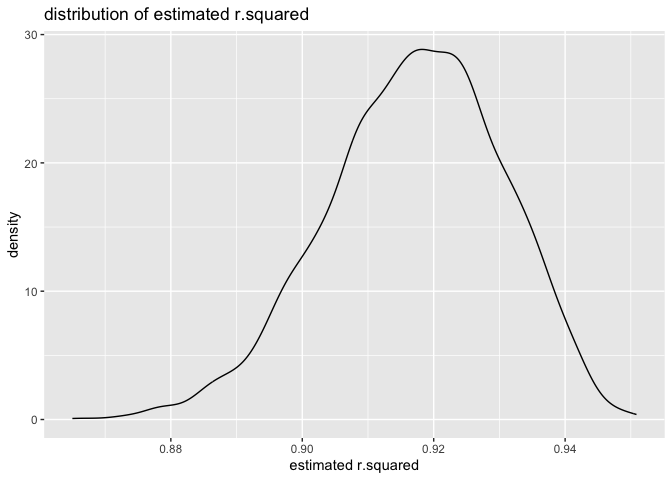
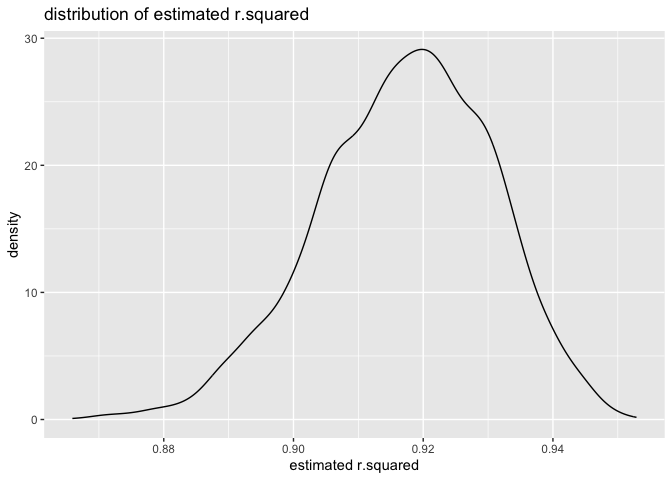
problem 3 finished

diff --git a/p8105_hw6_os2424.md b/p8105_hw6_os2424.md
@@ -213,8 +213,8 @@ quantile(pull(boot_straps, r.squared), probs = c(0.025,0.975))|>
 
 |       |         x |
 |:------|----------:|
-| 2.5%  | 0.8885607 |
-| 97.5% | 0.9404764 |
+| 2.5%  | 0.8888959 |
+| 97.5% | 0.9410845 |
 
 ``` r
 # CI for log
@@ -224,5 +224,110 @@ quantile(pull(boot_straps_nNA, log_beta), probs = c(0.025,0.975))|>
 
 |       |         x |
 |:------|----------:|
-| 2.5%  | -8.921296 |
-| 97.5% | -4.563491 |
+| 2.5%  | -9.109593 |
+| 97.5% | -4.568212 |
+
+# Problem 3
+
+``` r
+# import data
+birthwt <- read_csv("data/birthweight.csv")
+```
+
+    ## Rows: 4342 Columns: 20
+    ## ── Column specification ────────────────────────────────────────────────────────
+    ## Delimiter: ","
+    ## dbl (20): babysex, bhead, blength, bwt, delwt, fincome, frace, gaweeks, malf...
+    ## 
+    ## ℹ Use `spec()` to retrieve the full column specification for this data.
+    ## ℹ Specify the column types or set `show_col_types = FALSE` to quiet this message.
+
+``` r
+# clean data
+birthwt <- birthwt|>
+  janitor::clean_names()|>
+  mutate(babysex = case_when(babysex ==1 ~"male",
+                             babysex ==2 ~"female"),
+         frace = case_when(frace ==1 ~"White",
+                           frace ==2 ~"Black",
+                           frace ==3 ~"Asian",
+                           frace ==4 ~"Puerto Rican",
+                           frace ==8 ~"Other",
+                           frace ==9 ~"Unknown"),
+         malform = case_when(malform ==0 ~"absent",
+                             malform ==1 ~"present"),
+         mrace = case_when(mrace ==1 ~"White",
+                           mrace ==2 ~"Black",
+                           mrace ==3 ~"Asian",
+                           mrace ==4 ~"Puerto Rican",
+                           mrace ==8 ~"Other"))
+# check for NA
+sum(is.na(birthwt))
+```
+
+    ## [1] 0
+
+Based on a paper analyzing factors affecting birth weight of a newborn ,
+I decided to use baby’s sex, baby’s length at birth, mother’s weight at
+delivery, gestational age in weeks, father’s race, presence of
+malformations that could affect weight, mother’s age at delivery,
+average number of cigarettes smoked per day during pregnancy, and
+mother’s weight gain during pregnancy as factors to propose a model for
+birth weight.  
+
+paper reference: Metgud CS, Naik VA, Mallapur MD. Factors affecting
+birth weight of a newborn–a community based study in rural Karnataka,
+India. PLoS One. 2012;7(7):e40040. <doi:10.1371/journal.pone.0040040>
+
+``` r
+#Propose a regression model for birthweight
+m1 <- birthwt|>
+  lm(bwt ~ babysex + blength+ gaweeks + frace+malform + momage + smoken + wtgain, data = _)
+# show a plot of model residuals against fitted values
+birthwt|>
+  add_predictions(m1)|>
+  add_residuals(m1)|>
+  ggplot(aes(x = pred, y = resid))+
+  geom_point()
+```
+
+![](p8105_hw6_os2424_files/figure-gfm/unnamed-chunk-9-1.png)<!-- -->
+
+Based on the plot, there is no relationship between the residuals and
+fitted values.
+
+``` r
+# compare model to two others
+m2 <- birthwt|>
+  lm(bwt ~ blength + gaweeks, data = _)
+m3 <- birthwt|>
+  lm(bwt ~ bhead * blength * babysex, data = _)
+# cross-validated prediction error
+cv <- crossv_mc(birthwt, 100)|>
+  mutate(
+    train = map(train, as_tibble),
+    test = map(test, as_tibble))|>
+  mutate(
+    f1  = map(train, ~m1),
+    f2  = map(train, ~m2),
+    f3  = map(train, ~m3))|> 
+  mutate(
+    rmse_1 = map2_dbl(f1, test, \(mod, df) rmse(model = mod, data = df)),
+    rmse_2 = map2_dbl(f2, test, \(mod, df) rmse(model = mod, data = df)),
+    rmse_3 = map2_dbl(f3, test, \(mod, df) rmse(model = mod, data = df)))
+cv|> 
+  dplyr::select(starts_with("rmse"))|> 
+  pivot_longer(
+    everything(),
+    names_to = "model", 
+    values_to = "rmse",
+    names_prefix = "rmse_") |> 
+  mutate(model = fct_inorder(model)) |> 
+  ggplot(aes(x = model, y = rmse)) + geom_violin()
+```
+
+![](p8105_hw6_os2424_files/figure-gfm/unnamed-chunk-10-1.png)<!-- -->
+
+Based on the plot, the intersection model is the best one with the
+smallest RMSE. The proposed model is better than the main model, which
+has the largest RMSE.
